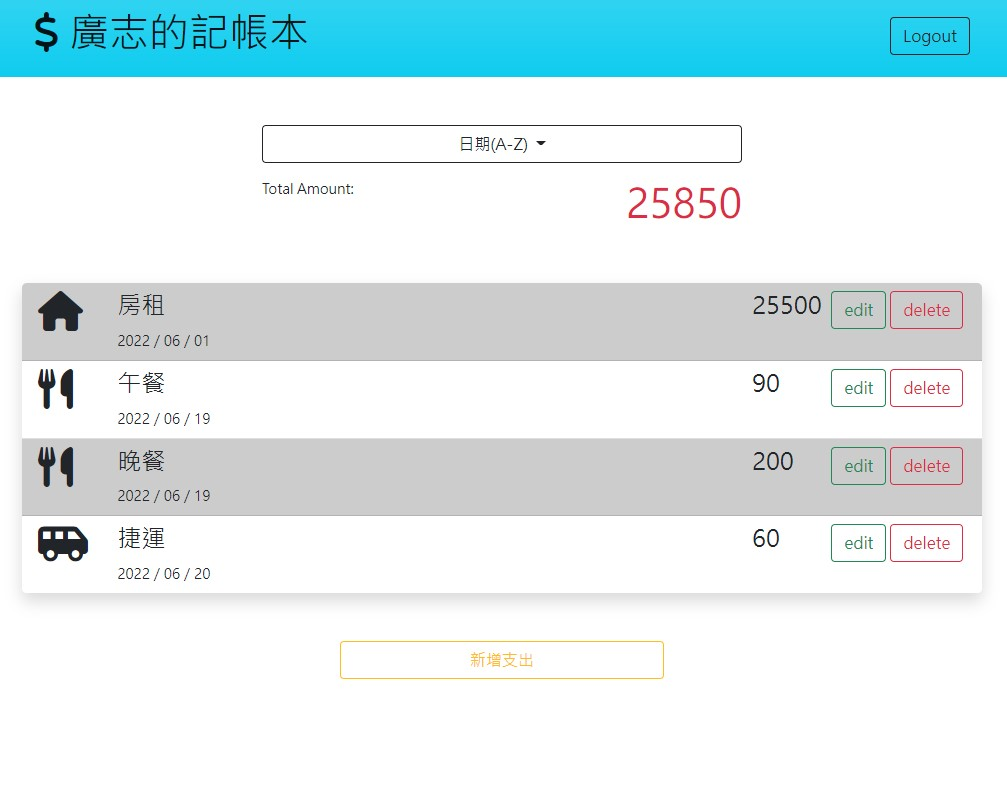
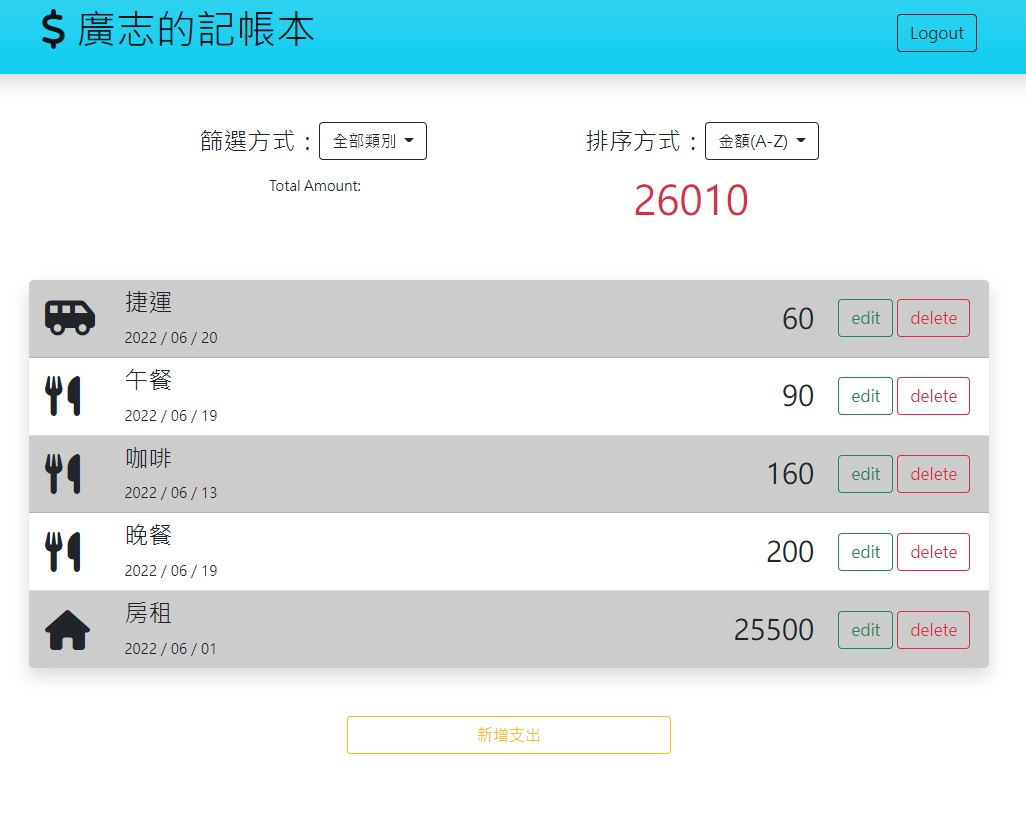
feat: add filter router

diff --git a/routes/modules/records.js b/routes/modules/records.js
@@ -44,6 +44,26 @@ router.get('/sort', async (req, res) => {
   }
 })
 
+router.get('/filter', async (req, res) => {
+  try {
+    const userId = req.user._id
+    const name = req.query.category
+    const sort = req.session.sort
+    const selected = req.session.selected
+    const category = await Category.findOne({ name })
+    const record = await Record.find({ userId, categoryId: category._id })
+      .lean()
+      .sort(sort)
+    const totalAmount = record
+      .map(record => record.amount)
+      .reduce((a, b) => a + b, 0)
+    record.forEach(i => (i.icon = category.icon))
+    res.render('index', { record, selected, totalAmount, filter: name })
+  } catch (err) {
+    console.log(err)
+  }
+})
+
 router.get('/:id/edit', async (req, res) => {
   try {
     const userId = req.user._id
